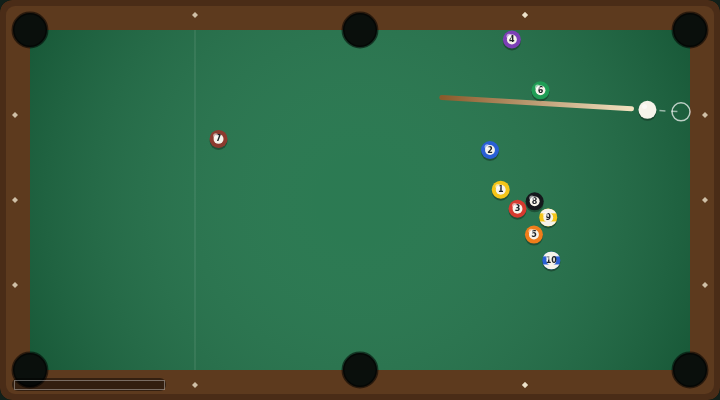
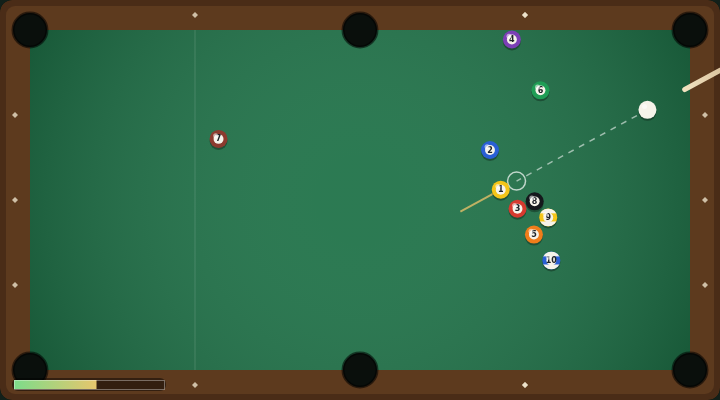
Show the object ball's departure line in the Billiards aim guide
The ghost ball marked the contact point but not where the struck ball
would actually go, which is the part a player needs to plan a cut. Draw a
short line from the object ball centre along the line of centres, and
refresh the screenshot to show it.

Claude-Session: https://claude.ai/code/session_01DdC4ZNGmUWJGKvc1vcQZCz

diff --git a/Billiards/game.js b/Billiards/game.js
@@ -603,6 +603,19 @@ function drawAim() {
     ctx.strokeStyle = 'rgba(255,255,255,0.7)';
     ctx.stroke();
 
+    // where the object ball will set off: along the line of centres
+    if (contact.ball) {
+        const dx = contact.ball.x - contact.x;
+        const dy = contact.ball.y - contact.y;
+        const len = Math.hypot(dx, dy) || 1;
+        ctx.strokeStyle = 'rgba(240, 196, 106, 0.75)';
+        ctx.lineWidth = 2;
+        ctx.beginPath();
+        ctx.moveTo(contact.ball.x, contact.ball.y);
+        ctx.lineTo(contact.ball.x + (dx / len) * 46, contact.ball.y + (dy / len) * 46);
+        ctx.stroke();
+    }
+
     // cue stick, pulled back by the charge
     const back = 16 + power * 48;
     const ox = Math.cos(aimAngle);
